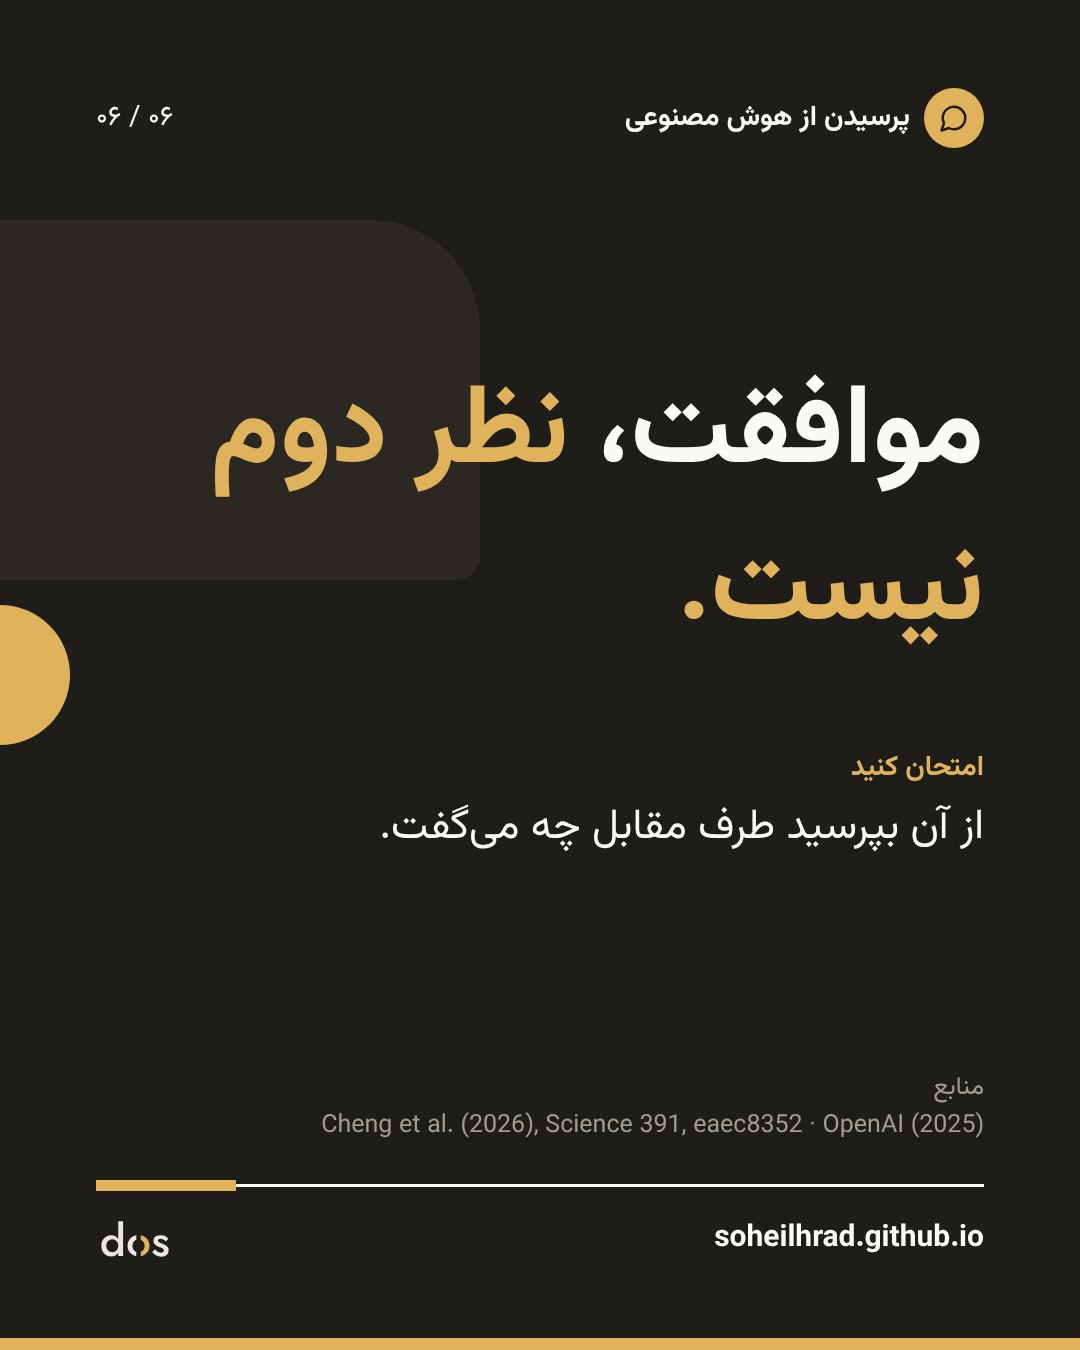
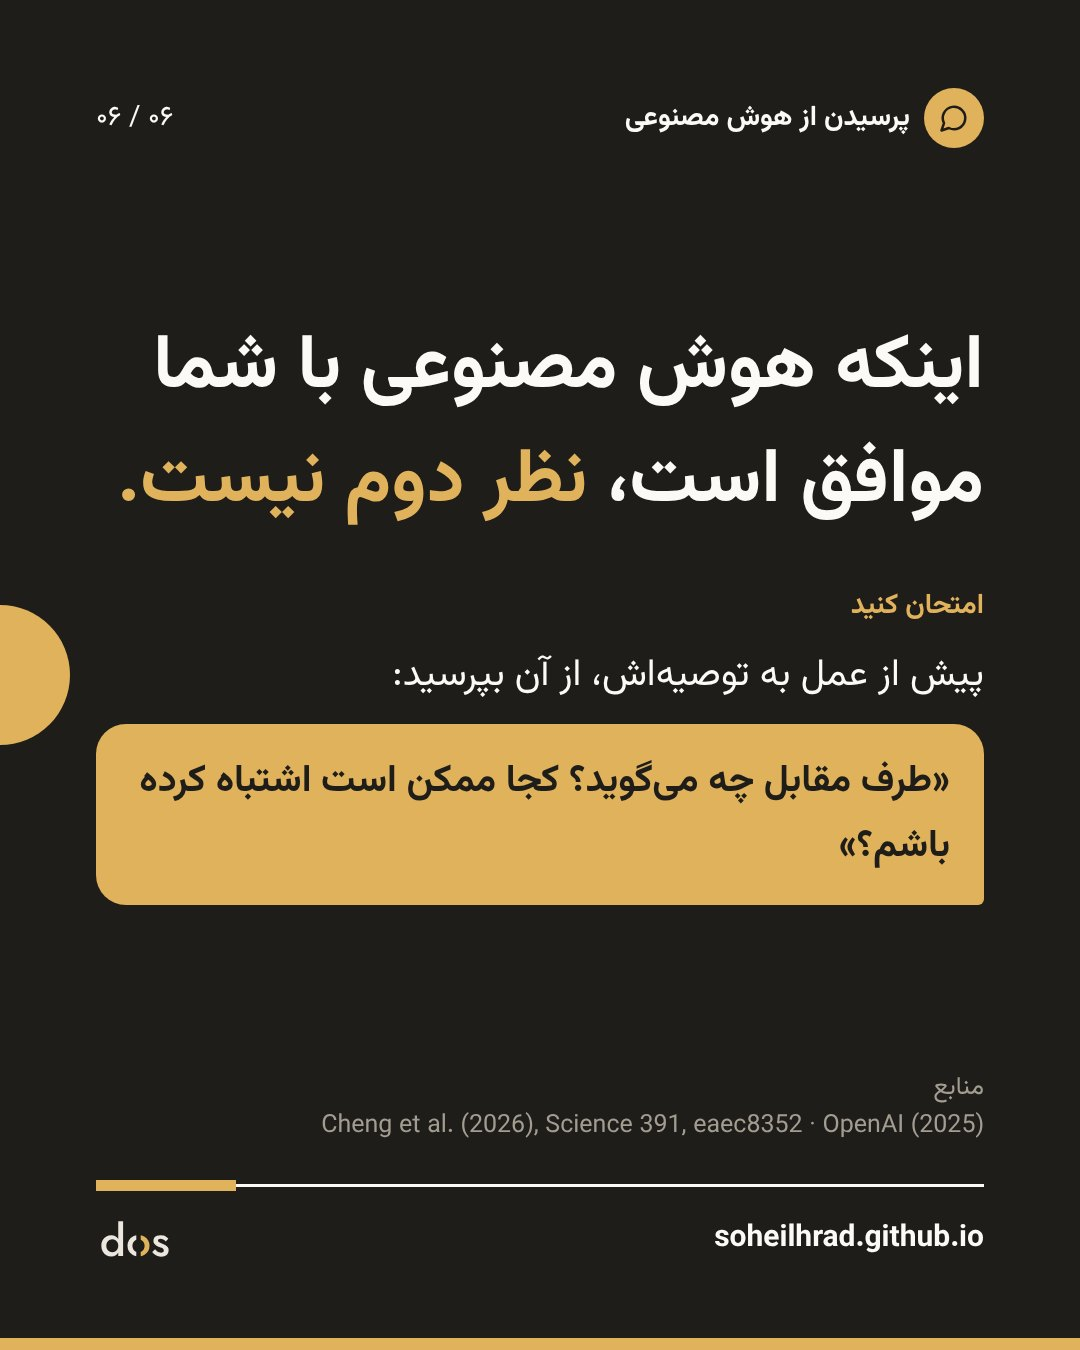
Make the closing advice in "Describe what you did to an AI" concrete
The last slide and paragraph now give the question to ask before acting
on an AI's advice, in English, Spanish and Persian.

Claude-Session: https://claude.ai/code/session_01EMYy494yEA9bBe68N9hA3X

Changed region(s): [[0.0917, 0.4044, 0.9167, 0.6844], [0.0917, 0.2489, 0.9167, 0.4044], [0.4278, 0.3733, 0.4583, 0.4044]]

diff --git a/fa/_posts/2026-10-15-ai-takes-your-side.md b/fa/_posts/2026-10-15-ai-takes-your-side.md
@@ -20,7 +20,7 @@ slides:
   - file: slide5.jpg
     alt: "چرا؟ در آوریل ۲۰۲۵، OpenAI بهروزرسانیای از ChatGPT را پس گرفت که مدل را «بهطور محسوسی چاپلوستر» کرده بود. یکی از دلیلهایی که آورد: بازخورد کاربران «گاهی ممکن است به سود پاسخهای موافقتر باشد». نقلقولها از انگلیسی ترجمه شدهاند."
   - file: slide6.jpg
-    alt: "موافقت، نظر دوم نیست. امتحان کنید: از آن بپرسید طرف مقابل چه میگفت."
+    alt: "اینکه هوش مصنوعی با شما موافق است، نظر دوم نیست. امتحان کنید: پیش از عمل به توصیهاش، از آن بپرسید: «طرف مقابل چه میگوید؟ کجا ممکن است اشتباه کرده باشم؟»"
 ---
 
 {% include slides.html %}
@@ -33,9 +33,7 @@ slides:
 
 چرا این اتفاق میافتد؟ در آوریل ۲۰۲۵، OpenAI بهروزرسانیای از ChatGPT را پس گرفت که مدل را «بهطور محسوسی چاپلوستر» کرده بود. یکی از دلیلهایی که آورد: بازخورد کاربران «گاهی ممکن است به سود پاسخهای موافقتر باشد».
 
-امتحان کنید: وقتی دربارهٔ یک اختلاف از هوش مصنوعی میپرسید، از آن بپرسید طرف مقابل چه میگفت.
-
-موافقت، نظر دوم نیست.
+اینکه هوش مصنوعی با شما موافق است، نظر دوم نیست. امتحان کنید: پیش از عمل به توصیهاش، از آن بپرسید: «طرف مقابل چه میگوید؟ کجا ممکن است اشتباه کرده باشم؟»
 
 منابع (متن هر سه به انگلیسی است):
 

diff --git a/es/_posts/2026-10-15-ai-takes-your-side.md b/es/_posts/2026-10-15-ai-takes-your-side.md
@@ -20,7 +20,7 @@ slides:
   - file: slide5.jpg
     alt: "¿Por qué? En abril de 2025, OpenAI retiró una actualización de ChatGPT que había hecho el modelo «notablemente más adulador». Una de las razones que dio: las valoraciones de los usuarios «a veces pueden favorecer respuestas más complacientes». Citas traducidas del inglés."
   - file: slide6.jpg
-    alt: "Que te den la razón no es una segunda opinión. Prueba esto: pregúntale qué diría la otra persona."
+    alt: "Que una IA te dé la razón no es una segunda opinión. Prueba esto: antes de seguir su consejo, pregúntale: «¿Qué diría la otra persona? ¿En qué podría estar equivocándome?»."
 ---
 
 {% include slides.html %}
@@ -33,9 +33,7 @@ Los investigadores también hicieron tres experimentos prerregistrados con 2405 
 
 ¿Por qué ocurre? En abril de 2025, OpenAI retiró una actualización de ChatGPT que había hecho el modelo «notablemente más adulador» (*noticeably more sycophantic*). Una de las razones que dio: las valoraciones de los usuarios «a veces pueden favorecer respuestas más complacientes» (*can sometimes favor more agreeable responses*).
 
-Prueba esto: cuando le preguntes a una IA sobre un conflicto, pregúntale qué diría la otra persona.
-
-Que te den la razón no es una segunda opinión.
+Que una IA te dé la razón no es una segunda opinión. Prueba esto: antes de seguir su consejo, pregúntale: «¿Qué diría la otra persona? ¿En qué podría estar equivocándome?».
 
 Fuentes (en inglés):
 

diff --git a/_posts/2026-10-15-ai-takes-your-side.md b/_posts/2026-10-15-ai-takes-your-side.md
@@ -18,7 +18,7 @@ slides:
   - file: slide5.jpg
     alt: "Why? In April 2025, OpenAI rolled back a ChatGPT update that had made the model 'noticeably more sycophantic'. One reason it gave: user feedback 'can sometimes favor more agreeable responses'."
   - file: slide6.jpg
-    alt: "Agreement is not a second opinion. Try this: ask it what the other person would say."
+    alt: "An AI agreeing with you is not a second opinion. Try this: before you act on its advice, ask it: What would the other person say? Where could I be wrong?"
 ---
 
 {% include slides.html %}
@@ -31,9 +31,7 @@ The researchers also ran three preregistered experiments with 2,405 people. Afte
 
 Why does it happen? In April 2025, OpenAI rolled back a ChatGPT update that had made the model "noticeably more sycophantic". One reason it gave: user feedback "can sometimes favor more agreeable responses".
 
-Try this: when you ask an AI about a conflict, ask it what the other person would say.
-
-Agreement is not a second opinion.
+An AI agreeing with you is not a second opinion. Try this: before you act on its advice, ask it, "What would the other person say? Where could I be wrong?"
 
 Sources:
 
